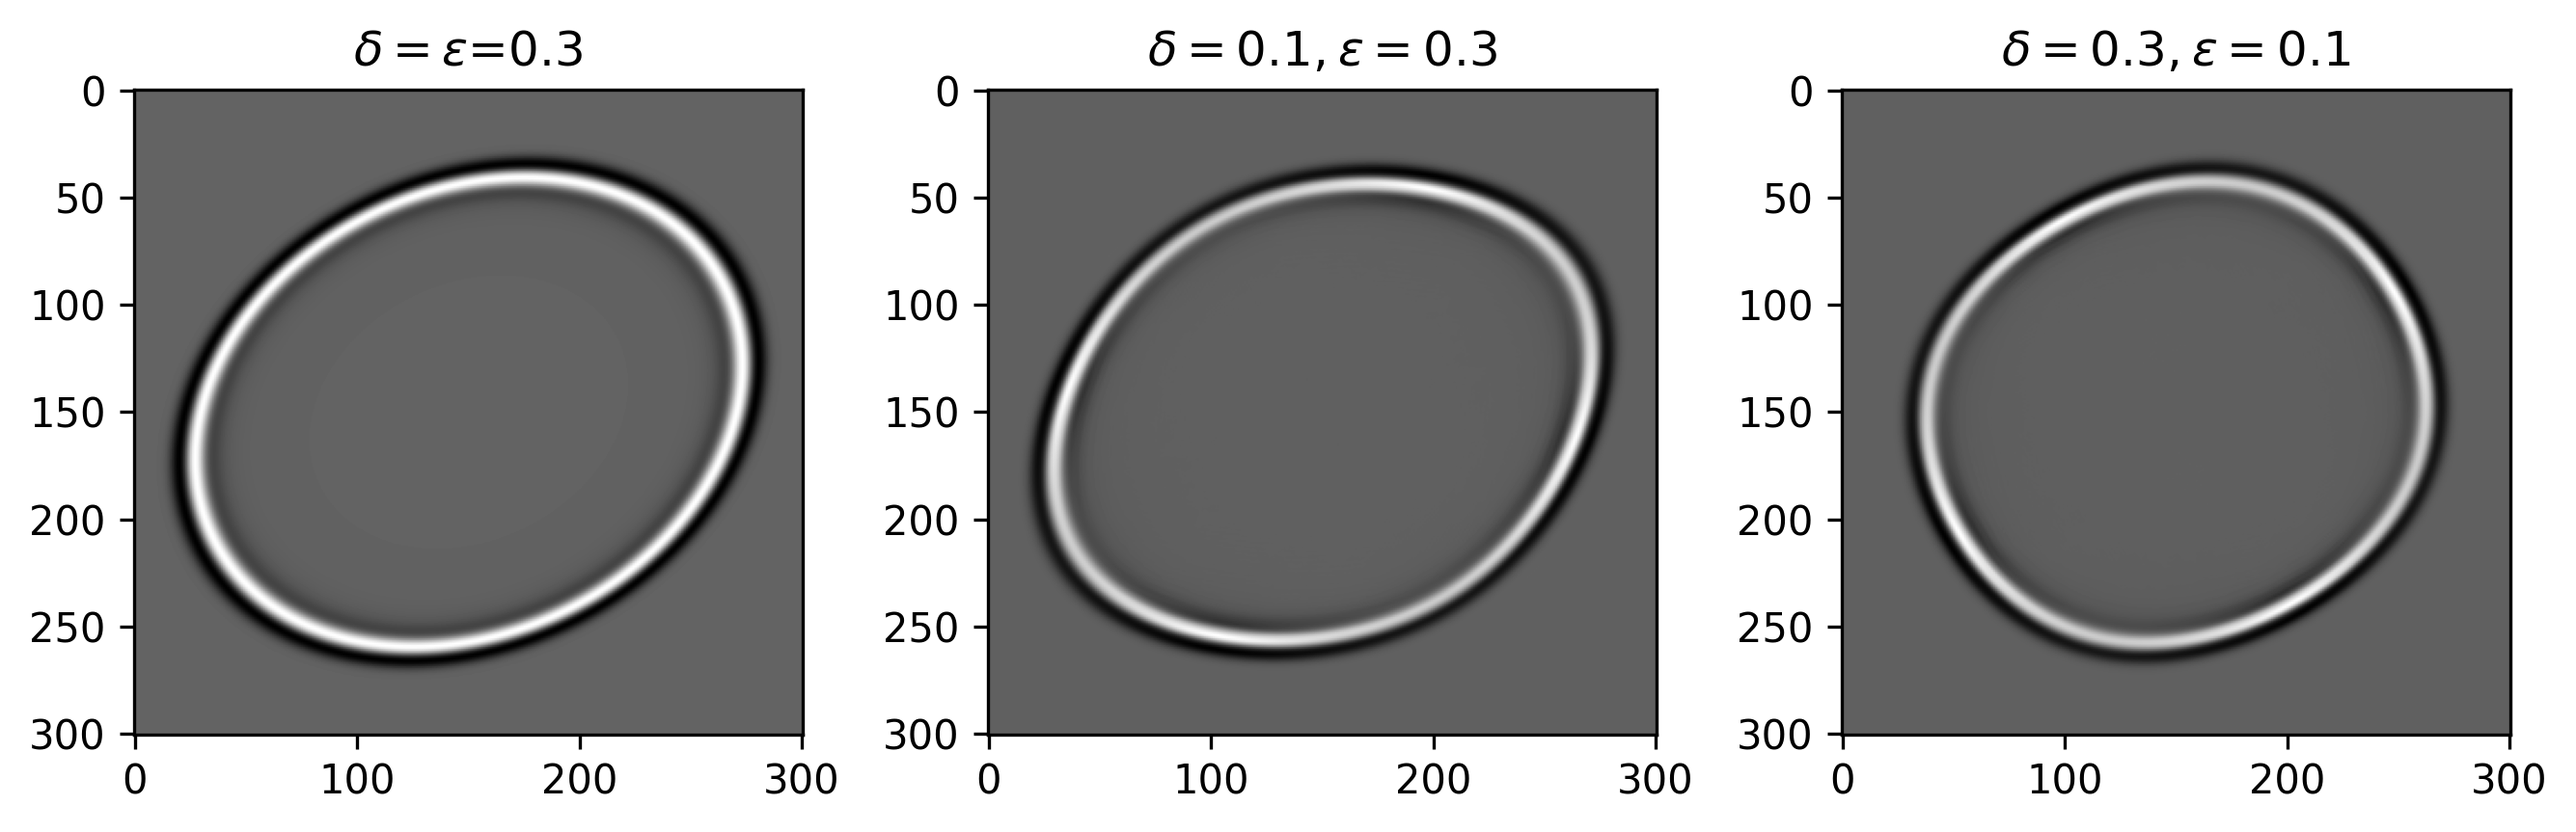
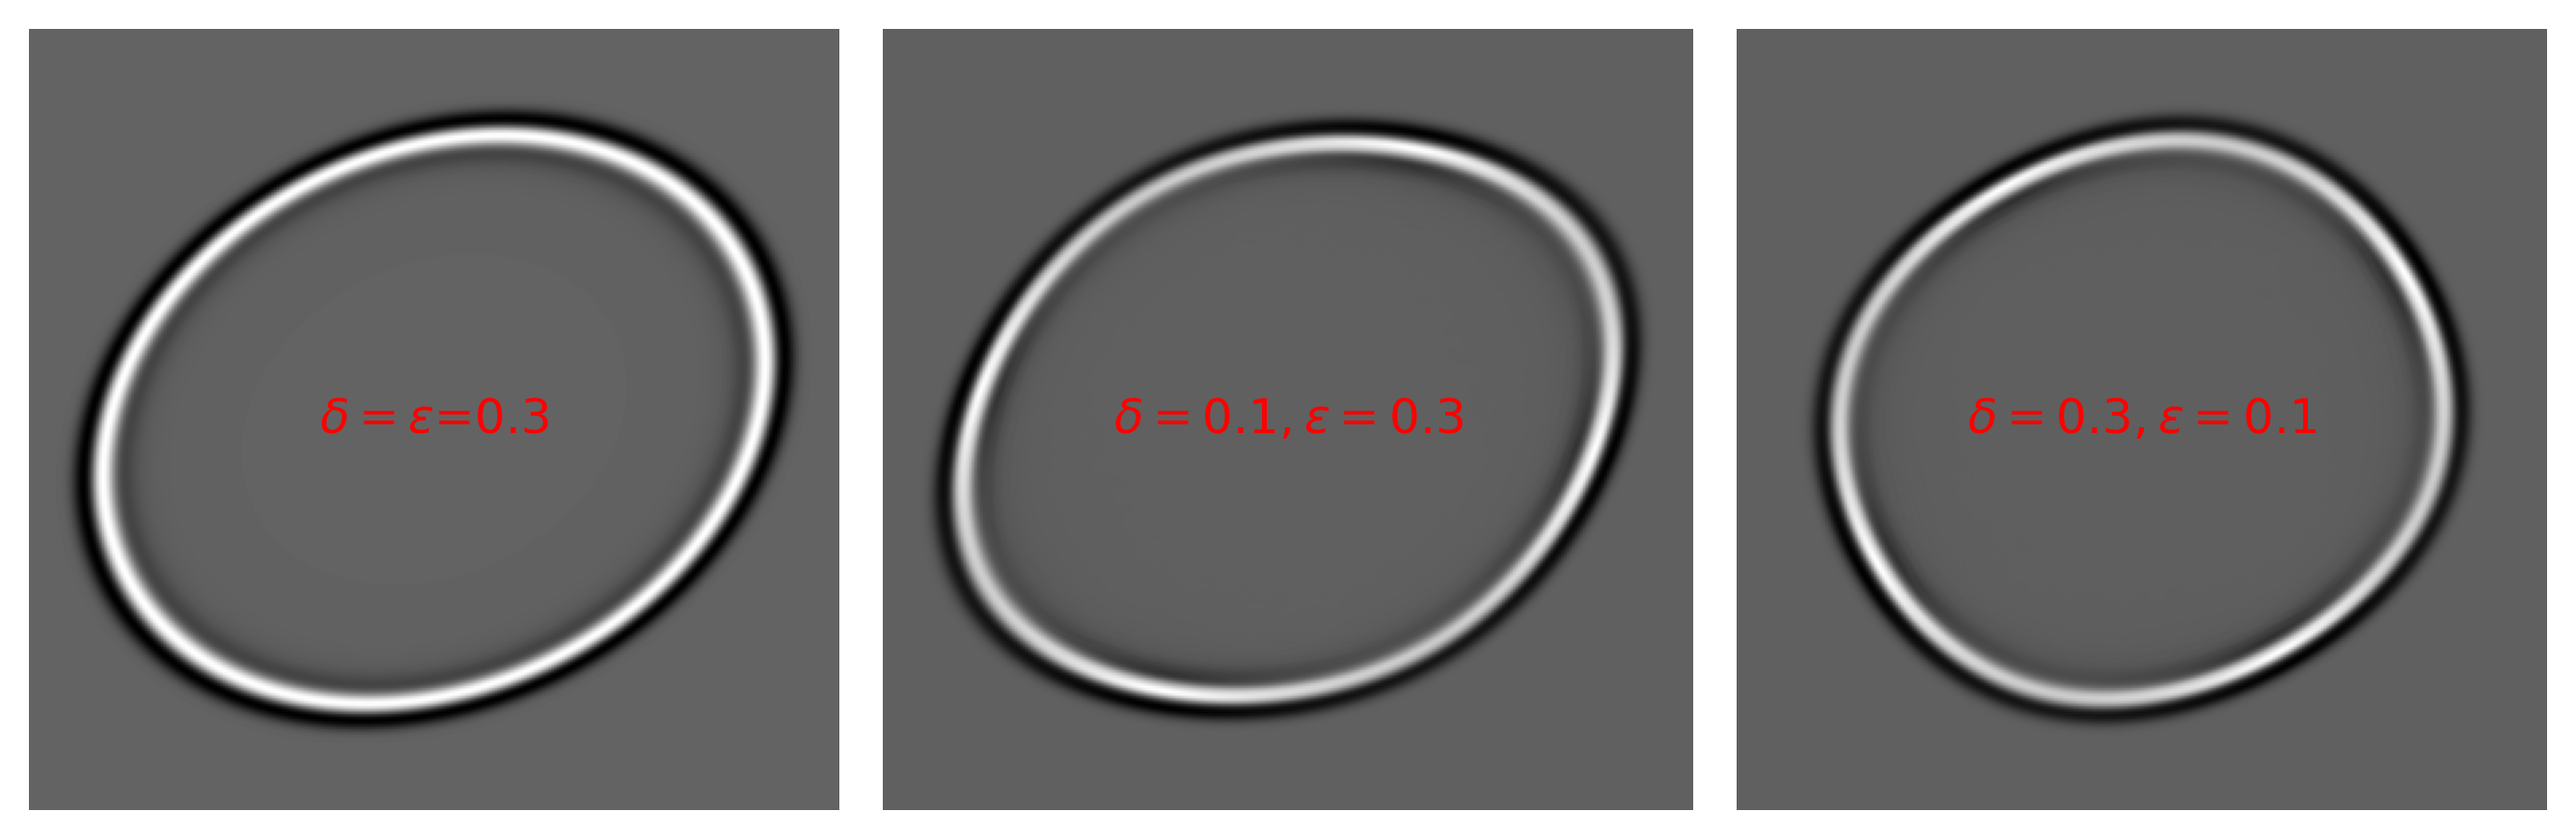
Added Visco-acoustic support

diff --git a/examples/attenuation/viscoacoustic.py b/examples/attenuation/viscoacoustic.py
@@ -1,0 +1,100 @@
+import os
+os.environ["XLA_PYTHON_CLIENT_PREALLOCATE"] = "false"
+
+import sys, tqdm, jax, optax
+
+import numpy as np
+import jax.numpy as jnp
+import jax.random as random
+sys.path.append('../../src')
+from geophyai.rnn import RNNJax
+from geophyai.equations import ViscoAcoustic
+from geophyai.signal import ricker
+from functools import partial
+import matplotlib.pyplot as plt
+
+### Configures
+nz, nx = 256, 256
+dt = 0.001
+nt = 351
+dh = 5.0
+fm = 20
+delay = 0.1
+spatial_order = 8
+abcn = 50
+
+# Generate models
+vp = np.ones((nz, nx), np.float32) * 2000.0
+Q = np.ones((nz, nx), np.float32) * 50.0
+omega = np.ones_like(vp) * 2 * np.pi * fm
+
+save_path = 'viscoacoustic'
+if not os.path.exists(save_path):
+    os.makedirs(save_path)
+
+np.random.seed(0)
+key = random.PRNGKey(0)
+
+t = np.arange(0, nt*dt, dt)
+shape = (nz, nx)
+
+wave = jnp.array(ricker(t-delay, f=fm))
+plt.plot(wave)
+plt.savefig(f'{save_path}/ricker.png', dpi=300, bbox_inches='tight')
+plt.close()
+
+# Forward solver_all for observed data
+solver_kwargs = dict(shape=shape, dev=None, dh=dh, dt=dt, source_type=['h1'], receiver_type=['h1'], abcn=abcn, free_surface=False)
+eq_kwargs = dict(spatial_order=spatial_order, backend='jax', )
+solver_none = RNNJax(ViscoAcoustic(**eq_kwargs, phase_shift=False, amplitude_damping=False), **solver_kwargs)
+solver_all = RNNJax(ViscoAcoustic(**eq_kwargs, phase_shift=True, amplitude_damping=True), **solver_kwargs)
+solver_phase = RNNJax(ViscoAcoustic(**eq_kwargs, phase_shift=True, amplitude_damping=False), **solver_kwargs)
+solver_amplitude = RNNJax(ViscoAcoustic(**eq_kwargs, phase_shift=False, amplitude_damping=True), **solver_kwargs)
+
+# Set the true solver_all
+
+# Geometry
+sources = np.array([nz//2, nx//2]).reshape(1, 2)
+receivers = np.array([nz//2, nx//2]).reshape(1, 1, 2)
+
+print("(Number of shots, dimension)", sources.shape)
+print("(Number of shots, number of receivers, dimension)", receivers.shape)
+
+
+fig, axes = plt.subplots(2,2, figsize=(16, 16))
+axes = axes.flatten()
+DATA = []
+for i, solver in enumerate([solver_none, solver_phase, solver_amplitude, solver_all]):
+    print(f'Solver {i} with phase_shift={solver.equation.phase_shift}, amplitude_damping={solver.equation.amplitude_damping}')
+    _, wavefields = solver.forward(wave, sources, receivers, models=[vp, Q, omega], return_wavefield=True)
+    # Plot the data
+    show_d = wavefields[350,0].squeeze()[abcn:-abcn, abcn:-abcn]
+    DATA.append(show_d)
+    vmin, vmax = np.percentile(show_d, [1, 99])
+    axes[i].imshow(show_d, cmap='seismic', vmin=vmin, vmax=vmax, aspect='auto')
+    axes[i].set_title(f'Phase Shift: {solver.equation.phase_shift}, Amplitude Damping: {solver.equation.amplitude_damping}')
+plt.tight_layout()
+plt.savefig(f'{save_path}/wavefields.png', dpi=300, bbox_inches='tight')
+plt.close()
+
+fig, ax = plt.subplots(figsize=(6, 6))
+show_d = np.zeros_like(DATA[0])
+show_d[0:nz//2, 0:nx//2] = DATA[0][0:nz//2, 0:nx//2] # Top-left: Acoustic
+show_d[0:nz//2, -nx//2:] = DATA[1][0:nz//2, -nx//2:] # Bottom-left: Phase Shift
+show_d[-nz//2:, 0:nx//2] = DATA[2][-nz//2:, 0:nx//2] # Bottom-right: Amplitude Damping
+show_d[-nz//2:, -nx//2:] = DATA[3][-nz//2:, -nx//2:] # Top-right: All
+# add text 
+positions = {
+    "Acoustic": (75, 100),
+    "Phase Shift": (170, 100),
+    "Amplitude Damping": (75, 150),
+    "Phase & Amplitude": (175, 150)
+}
+for label, (x, y) in positions.items():
+    ax.text(x, y, label, color='red', fontsize=12, ha='center', va='center')
+ax.axis('off')
+vmin, vmax = np.percentile(show_d, [1, 99])
+ax.imshow(show_d, cmap='gray', vmin=vmin, vmax=vmax, aspect='auto', interpolation='bilinear')
+ax.set_title('Wavefields')
+plt.savefig(f'{save_path}/combined_wavefields.png', dpi=300, bbox_inches='tight')
+plt.close()

diff --git a/src/geophyai/equations/visco_acoustic.py b/src/geophyai/equations/visco_acoustic.py
@@ -1,0 +1,98 @@
+import jax
+import numpy as np
+from .operator_jax import laplace
+import jax.numpy as jnp
+from typing import Tuple, Optional, Union, List
+from geophyai.scalars import generate_convolution_kernel
+from .utils import to_backend
+from .habc_jax import habc, bound_mask
+
+def step(u_now, u_pre, # Wavefields
+         vp, Q, omega,# Model parameters 
+         dt, h, b,  # Auxiliary parameters
+         k, # Wavenumbers
+         laplace_u_now, # Partial derivatives
+         phase_shift=True, # Phase shift
+         amplitude_damping=True, # Amplitude damping
+         habc_masks=None):
+    
+    a = 1 / (1 + b * dt)
+
+    t_sigma = omega**-1*(jnp.sqrt(1+(Q**-2))-Q**-1)
+    t_epslion = (omega**2 * t_sigma)**-1.
+    t = t_epslion/(t_sigma-1e-8) - 1.
+
+    u_next = 2 * u_now - u_pre + vp**2 * dt**2 * laplace_u_now
+
+    def linear(u_next):
+        return u_next
+
+    def phase(u_next):
+        u_next = u_next - ((1-jnp.sqrt(Q**2+1))*Q**-2)*vp**2*laplace_u_now*dt**2
+        return u_next
+    
+    def amplitude(u_next):
+        dudt = (u_now-u_pre)/dt
+        fft_dudt = jnp.fft.fft2(dudt, axes=(-2, -1))
+        temp = jnp.fft.ifft2(k*fft_dudt, axes=(-2, -1)).real
+        u_next = u_next - (dt**2*t*vp/2)*temp        
+        return u_next
+
+    u_next = jax.lax.cond(phase_shift, phase, linear, u_next)
+    u_next = jax.lax.cond(amplitude_damping, amplitude, linear, u_next)
+
+    u_next = a * u_next + (1 - a) * u_pre
+
+    return u_next, u_now
+
+
+class ViscoAcoustic:
+    """This class is the implementation of the acoustic wave equation solver with TTI media.
+       Reference: Liang K., et.al, 10.1190/geo2022-0292.1 (EQUATION A-7)
+    """
+    def __init__(self, spatial_order=4, device='cpu', backend = 'torch', dim=2, phase_shift=True, amplitude_damping=True):
+        """Acoustic wave equation solver.
+
+        Args:
+            spatial_order (int, optional): The order of the taylor expansion(Must be even). Defaults to 4.
+        """
+        
+        # Second order laplace kernel (Second derivative), Full kernel
+        kernel = generate_convolution_kernel(spatial_order)
+        self.kernel = to_backend(kernel, backend, device)
+
+        self.backend = backend
+
+        self.phase_shift = phase_shift
+        self.amplitude_damping = amplitude_damping
+
+    def init_habc(self, shape, abcn, free_surface=False, batchsize=1, use_habc=False):
+        habc_masks = bound_mask(*shape, abcn, batchsize, return_idx=True, free_surface=free_surface)
+        self.habc_masks = tuple([np.array(mask) if mask is not None else mask for mask in habc_masks])
+        self.use_habc = use_habc
+
+    @property
+    def need_init(self):
+        return True
+
+    def init(self, shape, device, h):
+        assert shape is not None, "shape must be provided to calculate the wavenumbers!!!"
+        kz = np.fft.fftfreq(shape[0], d=h) * 2 * np.pi
+        kx = np.fft.fftfreq(shape[1], d=h) * 2 * np.pi
+        kzz, kxx = np.meshgrid(kz, kx, indexing='ij')
+        self.k = np.sqrt(kxx**2 + kzz**2)
+        self.kx = to_backend(kxx, self.backend, device)
+        self.kz = to_backend(kzz, self.backend, device)
+        self.k = to_backend(self.k, self.backend, device)
+    
+    @property
+    def models(self):
+        return ['vp', 'Q', 'omega']
+    
+    @property
+    def wavefields(self):
+        return ['h1', 'h2']
+    
+    def func_jax(self, *args, **kwargs):
+        laplace_u_now = laplace(args[0], args[6], self.kernel)
+        return step(*args, self.k, laplace_u_now, self.phase_shift, self.amplitude_damping, **kwargs)

diff --git a/examples/anisotropic/acoustic_qP_simple_model.py b/examples/anisotropic/acoustic_qP_simple_model.py
@@ -87,7 +87,9 @@ for model_group, ax, title in zip([models_a, models_b, models_c], axes, titles):
     show_data = wavefields[600, 0, ...].squeeze()[abcn:-abcn, abcn:-abcn]
     vmin, vmax = np.percentile(show_data, [2, 98])
     ax.imshow(show_data, cmap='gray', aspect='auto')
-    ax.set_title(title, fontsize=12)
+    # ax.set_title(title, fontsize=12)
+    ax.text(150, 150, title, color='red', fontsize=12, ha='center', va='center')
+    ax.axis('off')
 plt.tight_layout()
 plt.savefig(f'{save_path}/wavefields_vti.png', dpi=300, bbox_inches='tight')
 plt.close()
@@ -99,7 +101,9 @@ for model_group, ax, title in zip([models_a, models_b, models_c], axes, titles):
     show_data = wavefields[600, 0, ...].squeeze()[abcn:-abcn, abcn:-abcn]
     vmin, vmax = np.percentile(show_data, [2, 98])
     ax.imshow(show_data, cmap='gray', aspect='auto')
-    ax.set_title(title, fontsize=12)
+    # ax.set_title(title, fontsize=12)
+    ax.text(150, 150, title, color='red', fontsize=12, ha='center', va='center')
+    ax.axis('off')
 plt.tight_layout()
 plt.savefig(f'{save_path}/wavefields_tti.png', dpi=300, bbox_inches='tight')
 plt.close()

diff --git a/src/geophyai/dataset.py b/src/geophyai/dataset.py
@@ -86,9 +86,6 @@ class DataLoader:
         self.rand_shots = rand_shots.reshape(self.steps_per_epoch, self.device_count, -1)
         self.shots_per_gpu = self.rand_shots.shape[-1]
 
-        if self.model_split:
-            self.split_models = [split_by_lr(m, self.left, self.right) for m in self.models]
-
     def next(self, step):
 
         obs_batch = self.obs[self.rand_shots[step]]
@@ -100,7 +97,8 @@ class DataLoader:
             mask_batch = None
 
         if self.model_split:
-            models_batch = [self.split_models[i][self.rand_shots[step]] for i in range(len(self.split_models))]
+            rs = self.rand_shots[step].flatten()
+            models_batch = [jnp.stack([m[:, l:r] for l, r in zip(self.left[rs], self.right[rs])]).reshape(self.device_count, -1, *self.shape) for m in self.models]
         else:
             models_batch = [jnp.tile(m.reshape(1, 1, *m.shape), (self.device_count, self.shots_per_gpu, 1, 1)) for m in self.models]
 

diff --git a/src/geophyai/equations/__init__.py b/src/geophyai/equations/__init__.py
@@ -9,6 +9,7 @@ from .aec_lsrtm import AcousticElasticCoupledLSRTM as AECLSRTM
 from .elastic_lsrtm import ElasticLSRTM
 from .acoustic_qP_tti import AcousticTTI
 from .acoustic_qP_vti import AcousticVTI
+from .visco_acoustic import ViscoAcoustic
 
 __all__ = ['Acoustic', 'Elastic', 'Acoustic1st', 'AcousticLSRTM', 'ElasticZ', 'ElasticP', 'AEC', 'ElasticLSRTM']
 supported_equations = { 'acoustic': {'fwi': [Acoustic, Acoustic1st],
